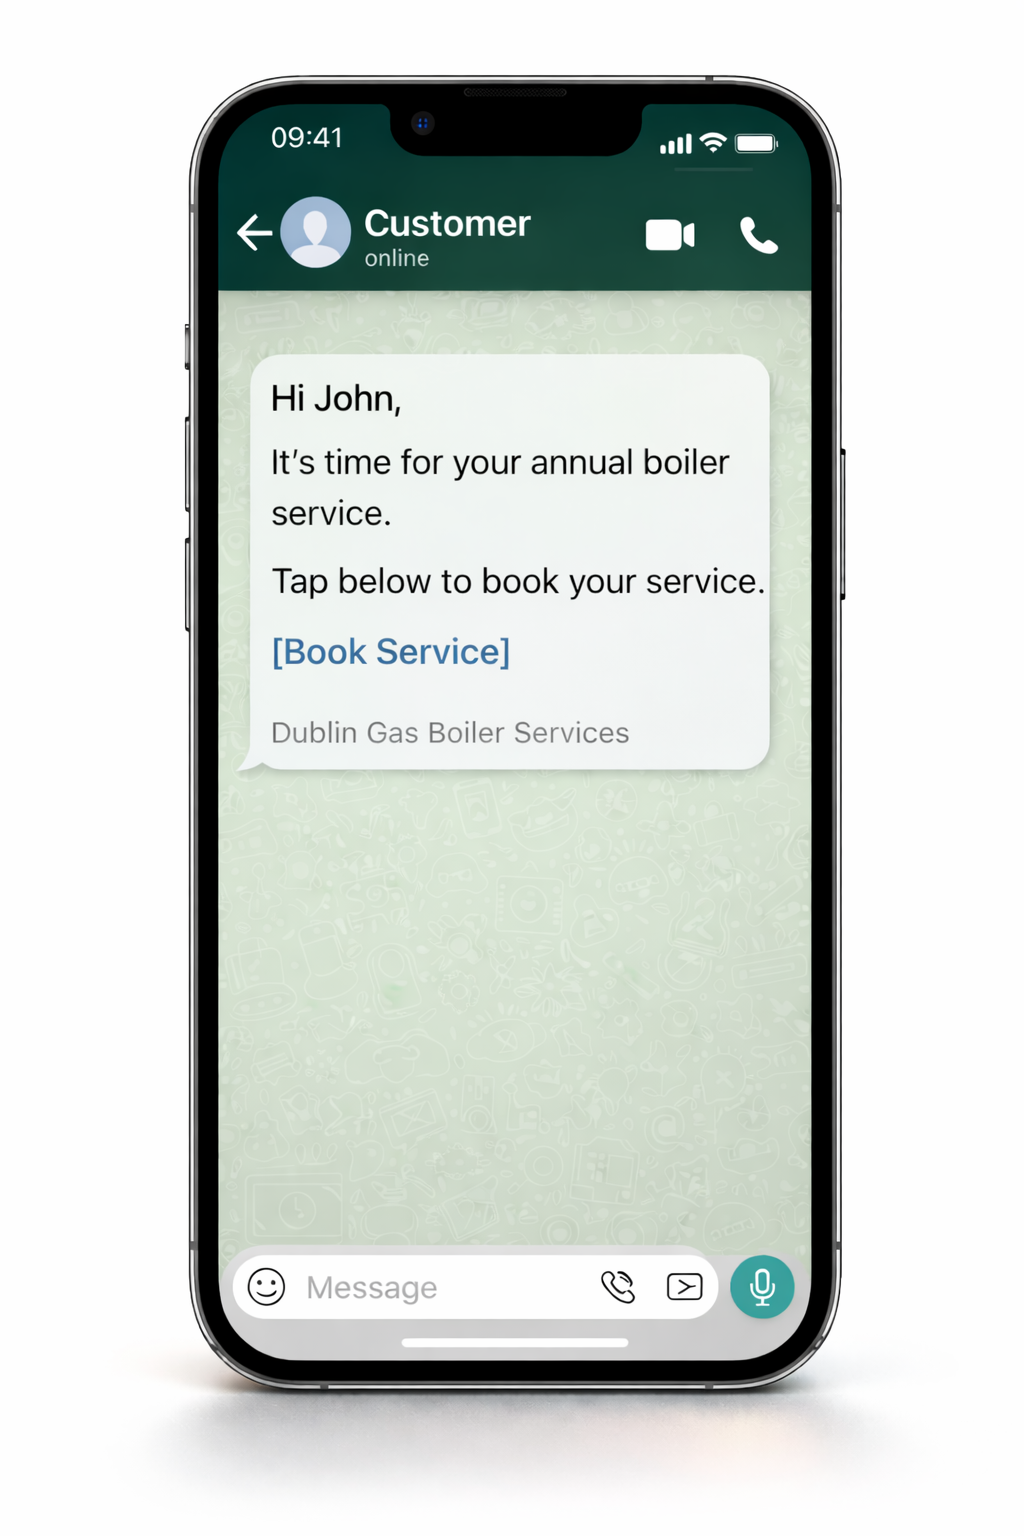
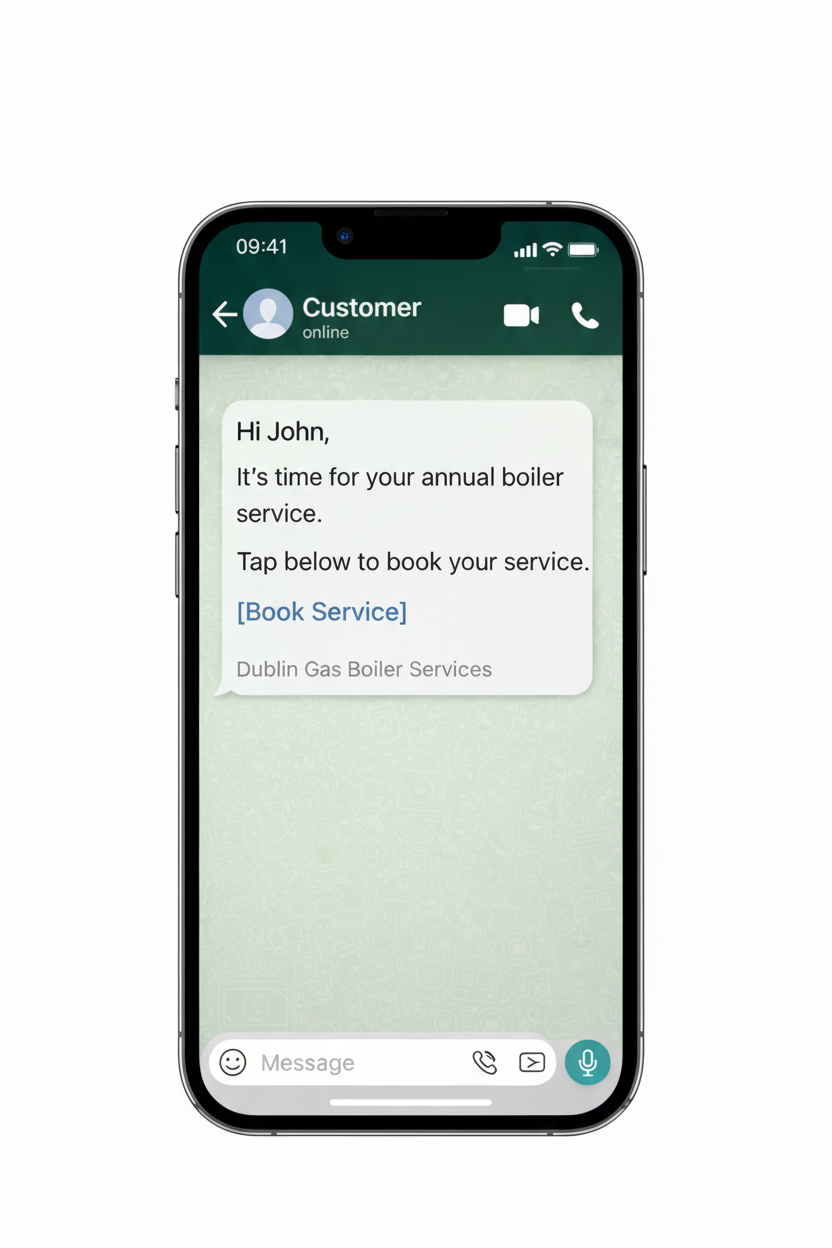
Changes

diff --git a/src/components/landing/NeverMissBookingSection.tsx b/src/components/landing/NeverMissBookingSection.tsx
@@ -65,11 +65,10 @@ export const NeverMissBookingSection = () => {
             <ScrollFadeIn direction="left">
               <div className="flex justify-center">
                 <div className="relative max-w-[280px] md:max-w-[320px]">
-                  <div className="absolute -inset-4 bg-[#25D366]/8 rounded-[2rem] blur-2xl" />
                   <img
                     src={whatsappMockupImg}
                     alt="WhatsApp reminder message showing automatic booking reminder sent to a customer"
-                    className="relative w-full h-auto drop-shadow-2xl"
+                    className="relative w-full h-auto"
                     loading="lazy"
                   />
                 </div>
